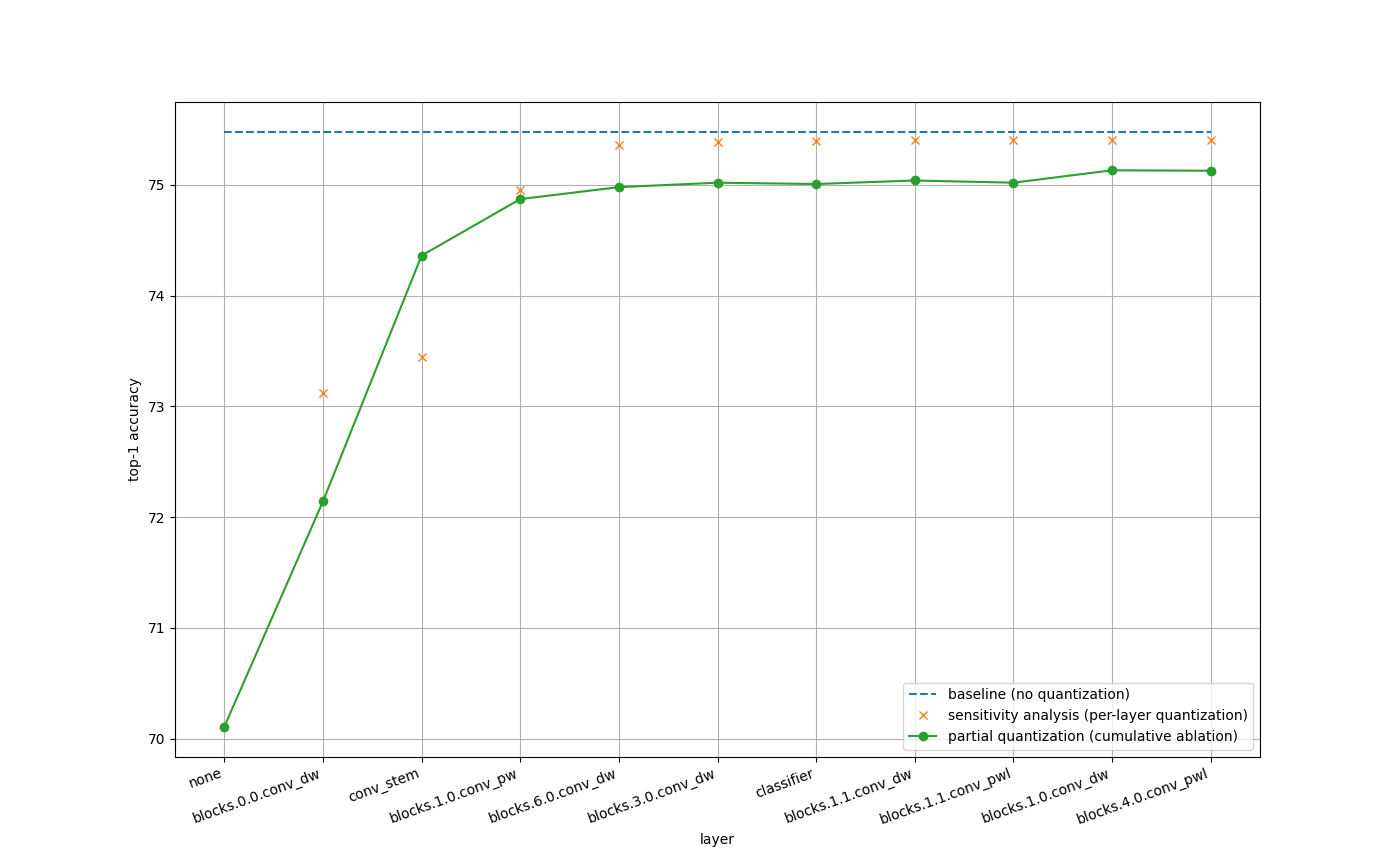
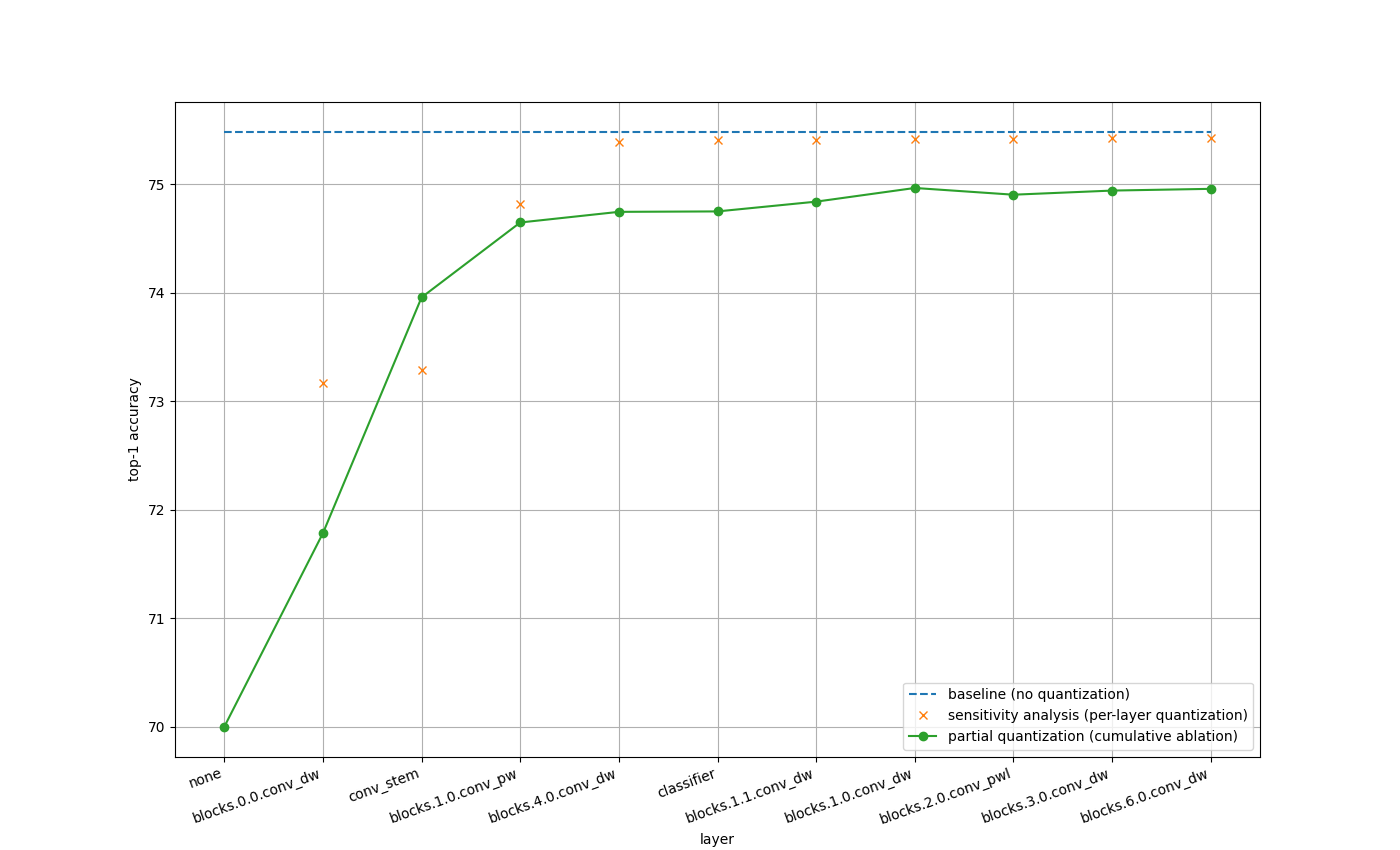
update

diff --git a/tools/plot_result.py b/tools/plot_result.py
@@ -2,43 +2,6 @@ import argparse
 import matplotlib.pyplot as plt
 import pandas as pd
 
-sa_df = pd.read_csv('sensitivity_analysis_efficientnet_lite0.csv')
-pq_df = pd.read_csv('partial_quantization_efficientnet_lite0.csv')
-
-_ = plt.figure(figsize=(14, 8.5))
-plt.xlabel('layer')
-plt.ylabel('top-1 accuracy')
-plt.xticks(rotation=20, ha="right")
-plt.grid()
-
-xs_tmp = [
-    l for l in pq_df.layers_not_quantized
-]
-
-xs = [
-    'none' if len(eval(l)) == 0 else eval(l)[0] for l in pq_df.layers_not_quantized
-]
-
-plt.plot(xs, [75.48] * len(xs), marker='', linestyle='--', label='baseline (no quantization)')
-
-xs_ = []
-ys_ = []
-for x in xs_tmp:
-    if eval(x) == []:
-        continue
-    xs_.append(eval(x)[0])
-    ys_.append(sa_df[sa_df.layers_quantized == x].top1)
-
-
-plt.plot(xs_, ys_, marker='x', linewidth=0, label='sensitivity analysis (per-layer quantization)')
-
-
-plt.plot(xs, pq_df.top1, marker='o', label='partial quantization (cumulative ablation)')
-
-plt.legend()
-
-plt.savefig('a.png')
-
 
 parser = argparse.ArgumentParser(description='Plot the result of sensitivity analysis and partial quantization')
 parser.add_argument('-sa', '--sensitivity-analysis-result', default=None,

diff --git a/tools/validate.py b/tools/validate.py
@@ -171,7 +171,10 @@ def quantize(model, args, data_config, crop_pct):
             'module_name': [(layer_name, None) for layer_name in args.layers_not_quantized],
         }
     _logger.info(f'qconfig={qconfig}')
-    model = quantize_fx.prepare_fx(model.eval(), qconfig)
+    example_inputs = torch.zeros((args.batch_size,) + tuple(data_config['input_size']))
+    model = quantize_fx.prepare_fx(model.eval(), qconfig, example_inputs=example_inputs)
+
+    #print(model)
 
     for batch_idx, (input, target) in enumerate(loader):
         if args.channels_last:

diff --git a/README.md b/README.md
@@ -33,7 +33,7 @@ Evaluate float model with CUDA:
 ```
 $ python tools/validate.py /work/data/ --model efficientnet_lite0
 
- * Acc@1 75.480 (24.520) Acc@5 92.518 (7.482)
+ * Acc@1 75.482 (24.518) Acc@5 92.520 (7.480)
 ```
 
 Evaluate float model with CPU:
@@ -57,7 +57,7 @@ Evaluate quantized model with CPU:
 ```
 $ python tools/validate.py /work/data/ --model efficientnet_lite0 --quant
 
- * Acc@1 70.108 (29.892) Acc@5 89.432 (10.568)
+ * Acc@1 70.000 (30.000) Acc@5 89.282 (10.718)
 ```
 
 Note that quantized model runs in CPU mode because Pytorch quantization does not support CUDA inference.
@@ -81,7 +81,7 @@ See `partial_quantization_efficientnet_lite0.csv` for the result.
 ### Plot result of sensitivity analysis and partial quantization
 
 ```
-python tools/plot_result.py -sa sensitivity_analysis_efficientnet_lite0.csv -pq partial_quantization_efficientnet_lite0.csv -ba 75.480
+python tools/plot_result.py -sa sensitivity_analysis_efficientnet_lite0.csv -pq partial_quantization_efficientnet_lite0.csv -ba 75.482
 ```
 
 ![](plot.png)
